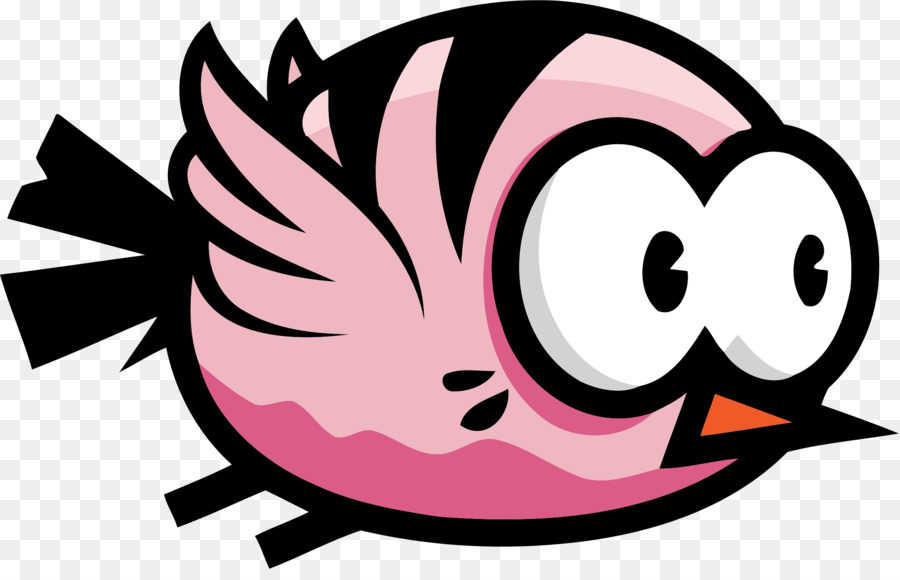
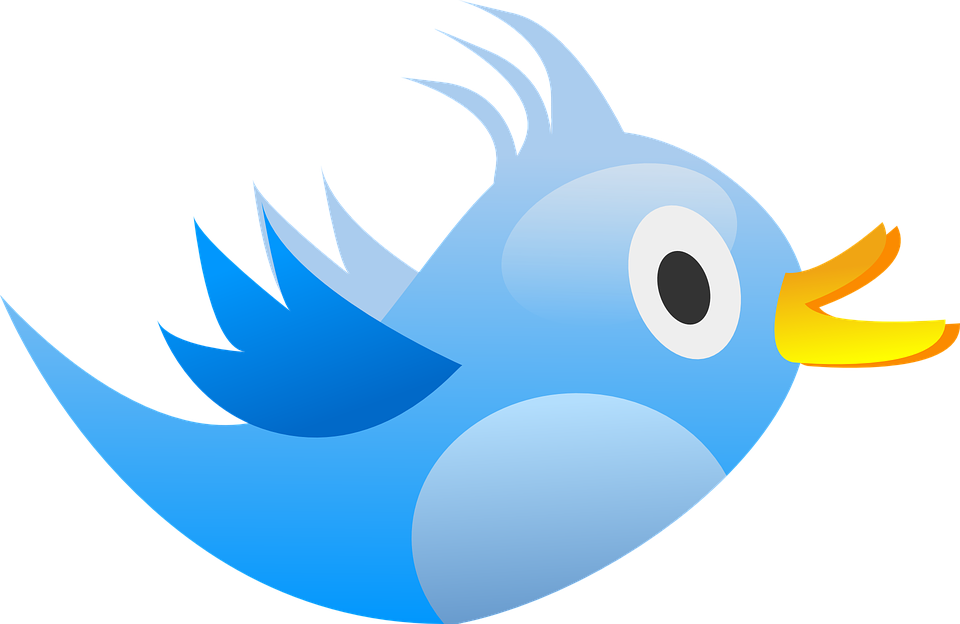
Add collision detection between wall and bird

diff --git a/ast8/scripts/game-controller.js b/ast8/scripts/game-controller.js
@@ -1,90 +1,112 @@
-const $mainWrappper = document.getElementById('main-wrapper');
-const $homeScreen = document.getElementById('home-screen');
-const $startBtn = document.getElementById('start-btn');
-const $gameScreen = document.getElementById('game-screen');
-const $gameOverScreen = document.getElementById('gameover-screen');
-const $bird = document.getElementsByClassName('bird')[0];
+// const $mainWrappper = document.getElementById('main-wrapper');
+// const $homeScreen = document.getElementById('home-screen');
+// const $startBtn = document.getElementById('start-btn');
+// const $gameScreen = document.getElementById('game-screen');
+// const $gameOverScreen = document.getElementById('gameover-screen');
+// const $bird = document.getElementsByClassName('bird')[0];
 
-const WALL_SPACE = 125;
+// const WALL_SPACE = 125;
 
 class GameController {
     constructor(props) {
         this.startGameLoop = false;
         this.walls = [];
+        this.wallSpace = 125;
         this.init();  
     }
 
     init() {
         this.homeScreen = new HomeScreen({
-            $element: $homeScreen
+            $element: this.getHomeScreen()
         });
 
         this.gameScreen = new GameScreen({
-            $element: $gameScreen
+            $element: this.getGameScreen()
         });
 
         this.gameOverScreen = new GameOverScreen({
-            $element: $gameOverScreen
+            $element: this.getGameOverScreen()
         });
 
         this.bird = new Bird({
             x: 20,
             y: 250,
-            $element: $bird
+            height: 30,
+            width: 30,
+            $element: this.getBorderBox(),
+            $bird: this.getBird()
         });
 
         this.startGame();
+
+        window.onkeydown = (e) => {
+            let key = e.keyCode ? e.keyCode : e.which;
+
+            if (key === 32 && !this.gamePaused) {
+                this.bird.setUpwardAcceleration();
+            }
+        }
     }
 
     startGame() {
-        $startBtn.onclick = () => {
+        this.getStartBtn().onclick = () => {
             this.homeScreen.hideHomeScreen();
             this.gameScreen.showGameScreen();
 
             this.startGameLoop = true;
+            this.gamePaused = false;
         }
 
         let id = setInterval(() => {
-            if (this.startGameLoop) {
-                // console.log(this.walls);
+            if (!this.gamePaused) {
+
+                this.bird.updateBirdPosition();
 
                 if (this.walls.length === 0 || this.walls[this.walls.length - 1].x < 600) {
                     this.generateObstacles();
                 }
-
-                let indices = [];
 
                 this.walls.map((wall) => {
                     wall.updateWallPosition();
                     wall.renderWall();
 
                     if (wall.x < -50) {
-                        indices.push(this.walls.indexOf(wall));
                         wall.destroyWall();
                         this.walls.splice(this.walls.indexOf(wall), 1);
                     }
                 });
-            }
-        }, 10);
-        // this.generateObstacles();
 
-        // clearInterval(id);
+
+            }
+
+            if (this.gamePaused) {
+                clearInterval(id);
+            }
+
+            if (this.bird.checkCollision(this.walls)){
+                this.gamePaused = true;
+                console.log("hello");
+            }
+
+            // if (!this.startGameLoop){
+            //     clearInterval(id);
+            // }
+        }, 10);
     }
 
     generateObstacles() {
         let upperWallHeight = Math.floor(Math.random() * 300) + 100;
-        let lowerWallHeight = 600 - upperWallHeight - WALL_SPACE;
-        let lowerWallY = upperWallHeight + WALL_SPACE;
+        let lowerWallHeight = 600 - upperWallHeight - this.wallSpace;
+        let lowerWallY = upperWallHeight + this.wallSpace;
         let upperWall = new UpperWall({
             x: 1000,
             y: 0,
             velocity: 1,
             width: 50,
             height: upperWallHeight,
-            $parent: $gameScreen 
+            $parent: this.getGameScreen()
         });
 
-        console.log(this);
         upperWall.pushSelfToWalls(this.walls);
 
         let lowerWall = new LowerWall({
@@ -93,18 +115,18 @@ class GameController {
             velocity: 1,
             width: 50,
             height: lowerWallHeight,
-            $parent: $gameScreen
+            $parent: this.getGameScreen()
         });
 
         lowerWall.pushSelfToWalls(this.walls);
     }
 
     pauseGame() {
-
+        this.gamePaused = true;
     }
 
     resumeGame() {
-
+        this.gamePaused = false;
     }
 
     restartGame() {
@@ -113,6 +135,39 @@ class GameController {
 
     exitGame() {
 
+    }
+
+    // getters
+    getMainWrapper() {
+        return document.getElementById('main-wrapper');
+    }
+
+    getHomeScreen() {
+        return document.getElementById('home-screen');
+    }
+
+    // const $startBtn = document.getElementById('start-btn');
+    getStartBtn() {
+        return document.getElementById('start-btn');
+    }
+
+    // const $gameScreen = document.getElementById('game-screen');
+    getGameScreen() {
+        return document.getElementById('game-screen');
+    }
+
+    // const $gameOverScreen = document.getElementById('gameover-screen');
+    getGameOverScreen() {
+        return document.getElementById('gameover-screen');
+    }
+
+    // const $bird = document.getElementsByClassName('bird')[0];
+    getBird() {
+        return document.getElementsByClassName('bird')[0];
+    }
+
+    getBorderBox() {
+        return document.getElementsByClassName('border-box')[0];
     }
 }
 

diff --git a/ast8/scripts/bird.js b/ast8/scripts/bird.js
@@ -2,11 +2,15 @@ class Bird {
     constructor(props) {
         this.x = props.x;
         this.y = props.y;
+        this.width = props.width;
+        this.height = props.height;
         this.xVelocity = 1;
-        this.yVelocity = 0;
-        this.gravity = 0.2;
+        this.yVelocity = 5;
+        this.gravity = 10;
         this.time = 0;
+        this.$bird = props.$bird;
         this.$element = props.$element;
+        this.theta = Math.atan(this.yVelocity / this.xVelocity);
 
         this.init();
     }
@@ -17,16 +21,39 @@ class Bird {
     }
 
     updateBirdPosition() {
-        this.time += 0.1;
-        this.y = (-this.yVelocity * this.time + 1 / 2 * this.gravity * this.time * this.time);
-        // this.y += 0.1;
+        this.time += 0.01;
+        let netAddingTerm = - this.yVelocity * this.time + 1 / 2 * this.gravity * this.time * this.time;
+        this.y += netAddingTerm;
+
+        if (this.y < 0) {
+            this.y = 0;
+        }
+
+        if (this.y + this.width > 600) {
+            this.y = 600 - this.width;
+        }
+        this.theta = Math.atan(netAddingTerm / this.xVelocity) * 180 / Math.PI;
+
         this.$element.style.top = this.y + 'px';
         this.$element.style.left = this.x + 'px';
+        this.$bird.style.transform = "rotate(" + this.theta + "deg)";
     }
 
     setUpwardAcceleration() {
-        console.log(this.y);
         this.yVelocity = 5;
-        this.time = 0;
+        this.time = 0.00;
+    }
+
+    checkCollision(walls) {
+        let topWall = walls[0];
+        let bottomWall = walls[1];
+
+        if (this.x + this.width > topWall.x && this.y < topWall.y + topWall.height && this.x < topWall.x + topWall.width
+            || this.x + this.width > bottomWall.x && this.y + this.width > bottomWall.y && this.x < bottomWall.x + bottomWall.width){
+            console.log("google");
+            return true;
+        }
+
+        return false;
     }
 }

diff --git a/ast8/style.css b/ast8/style.css
@@ -45,12 +45,20 @@
     display: none;
 }
 
-.bird {
+.border-box {
     position: absolute;
-    width: 50px;
-    height: 50px;
-    background-color: red;
-    /* background: url("./images/bird.jpg") no-repeat center; */
+    width: 30px;
+    height: 30px;
+    border: 1px solid red;
+}
+
+.bird {
+    /* position: absolute; */
+    width: 30px;
+    height: 30px;
+    /* background-color: red; */
+    background: url("./images/blue-bird.png") no-repeat center;
+    border: 1px solid black;
     background-size: contain;
 }
 

diff --git a/ast8/index.html b/ast8/index.html
@@ -11,7 +11,9 @@
                 <button id="start-btn">Start</button>
             </div>
             <div class="game-screen" id="game-screen">
-                <div class="bird"></div>
+                <div class="border-box">
+                    <div class="bird"></div>
+                </div>
                 <div class="moving-ground"></div>
             </div>
             <div class="gameover-screen" id="gameover-screen"></div>
